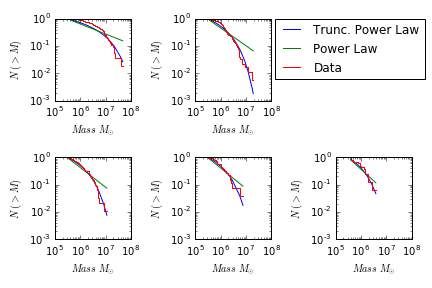
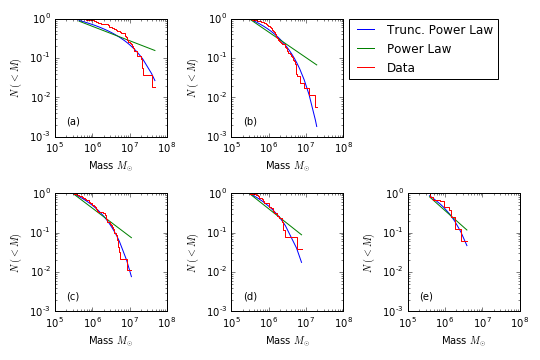
new catalog

Changed region(s): [[0.0, 0.5, 0.9931, 0.9688], [0.0, 0.0312, 0.9931, 0.4688]]

diff --git a/powerlawbins.py b/powerlawbins.py
@@ -33,6 +33,7 @@ mass=t['MASS_EXTRAP'].data
 myfit=powerlaw.Fit(mass)
 idx=np.where(t['MASS_EXTRAP']>3e5)
 mass_subset=t['MASS_EXTRAP'][idx].data
+myfit_subset=powerlaw.Fit(mass_subset, xmin=3e5)
 R,p=myfit_subset.distribution_compare('power_law', 'truncated_power_law')
 
 #plot bin 1
@@ -48,25 +49,19 @@ massdisk1_subset=t['MASS_EXTRAP'][idxmass_1].data
 fit_1_subset=powerlaw.Fit(massdisk1_subset, xmin=3e5)
 
 
-
-#fit_1.plot_ccdf() #look at the data with the fit
-print(fit_1.alpha) #returns the fitted index
-print(fit_1_subset.alpha)
-
 #compares two different forms of the distribution
 #R<0 means the data is more consistent with the right distribution, p is the significance of the result
 R1,p1=fit_1_subset.distribution_compare('power_law', 'truncated_power_law')
-print(R1,p1)
-print(1/fit_1_subset.truncated_power_law.parameter2)
 
-plt.figure(1)
+fig=plt.figure(figsize=(7.5,5))
+ax1=fig.add_subplot(231, xlabel=r'Mass $M_{\odot}$', ylabel=r'$N\ (<M)$')
 fit_1_subset.truncated_power_law.plot_ccdf(label='Trunc. Power Law')
 fit_1_subset.power_law.plot_ccdf(label='Power Law')
-fit_1_subset.plot_ccdf(drawstyle='steps', label='data')
-plt.xlabel(r'$Mass\ M_{\odot}$')
-plt.ylabel(r'$N\ (>M)$')
-plt.legend(loc=3)
-plt.savefig('powerlawbin1.png')
+fit_1_subset.plot_ccdf(drawstyle='steps', label='Data')
+plt.axis([10e4, 10e7, 10e-4, 10e-1])
+plt.text(2*10e4, 2*10e-4, '(a)')
+#plt.legend(loc=3)
+#plt.savefig('powerlawbin1.png')
 
 #plot bin 2
 
@@ -78,22 +73,16 @@ fit_2_subset=powerlaw.Fit(massdisk2_subset, xmin=3e5)
 massdisk2=t['MASS_EXTRAP'][idx_2].data
 fit_2=powerlaw.Fit(massdisk2)
 
-#fit_1.plot_ccdf() #look at the data with the fit
-print(fit_2.alpha) #returns the fitted index
-print(fit_2_subset.alpha)
-
 R2,p2=fit_2_subset.distribution_compare('power_law', 'truncated_power_law')
-print(R2,p2)
-print(1/fit_2_subset.truncated_power_law.parameter2)
 
-plt.figure(2)
+ax2=fig.add_subplot(232, sharex=ax1, sharey=ax1, xlabel=r'Mass $M_{\odot}$', ylabel=r'$N\ (<M)$')
 fit_2_subset.truncated_power_law.plot_ccdf(label='Trunc. Power Law')
 fit_2_subset.power_law.plot_ccdf(label='Power Law')
-fit_2_subset.plot_ccdf(drawstyle='steps', label='data')
-plt.xlabel(r'$Mass\ M_{\odot}$')
-plt.ylabel(r'$N\ (>M)$')
-plt.legend(loc=3)
-plt.savefig('powerlawbin2.png')
+fit_2_subset.plot_ccdf(drawstyle='steps', label='Data')
+plt.axis([10e4, 10e7, 10e-4, 10e-1])
+plt.text(2*10e4, 2*10e-4, '(b)')
+#plt.savefig('powerlawbin2.png')
+plt.legend(bbox_to_anchor=(1.05, 1), loc=2, borderaxespad=0.)
 
 #plot bin 3
 
@@ -106,22 +95,16 @@ fit_3_subset=powerlaw.Fit(massdisk3_subset, xmin=3e5)
 massdisk3=t['MASS_EXTRAP'][idx_3].data
 fit_3=powerlaw.Fit(massdisk3)
 
-#fit_1.plot_ccdf() #look at the data with the fit
-print(fit_3.alpha) #returns the fitted index
-print(fit_3_subset.alpha)
 
 R3,p3=fit_3_subset.distribution_compare('power_law', 'truncated_power_law')
-print(R3,p3)
-print(fit_3_subset.truncated_power_law.parameter2)
 
-plt.figure(3)
+ax3=fig.add_subplot(234, sharex=ax1, sharey=ax1, xlabel=r'Mass $M_{\odot}$', ylabel=r'$N\ (<M)$')
 fit_3_subset.truncated_power_law.plot_ccdf(label='Trunc. Power Law')
 fit_3_subset.power_law.plot_ccdf(label='Power Law')
-fit_3_subset.plot_ccdf(drawstyle='steps', label='data')
-plt.xlabel(r'$Mass\ M_{\odot}$')
-plt.ylabel(r'$N\ (>M)$')
-plt.legend(loc=3)
-plt.savefig('powerlawbin3.png')
+fit_3_subset.plot_ccdf(drawstyle='steps', label='Data')
+plt.axis([10e4, 10e7, 10e-4, 10e-1])
+plt.text(2*10e4, 2*10e-4, '(c)')
+#plt.savefig('powerlawbin3.png')
 
 #plot bin 4
 
@@ -134,22 +117,16 @@ fit_4_subset=powerlaw.Fit(massdisk4_subset, xmin=3e5)
 massdisk4=t['MASS_EXTRAP'][idx_4].data
 fit_4=powerlaw.Fit(massdisk4)
 
-#fit_1.plot_ccdf() #look at the data with the fit
-print(fit_4.alpha) #returns the fitted index
-print(fit_4_subset.alpha)
 
 R4,p4=fit_4_subset.distribution_compare('power_law', 'truncated_power_law')
-print(R4,p4)
-print(1/fit_4_subset.truncated_power_law.parameter2)
 
-plt.figure(4)
+ax4=fig.add_subplot(235, sharex=ax1, sharey=ax1, xlabel=r'Mass $M_{\odot}$', ylabel=r'$N\ (<M)$')
 fit_4_subset.truncated_power_law.plot_ccdf(label='Trunc. Power Law')
 fit_4_subset.power_law.plot_ccdf(label='Power Law')
-fit_4_subset.plot_ccdf(drawstyle='steps', label='data')
-plt.xlabel(r'$Mass\ M_{\odot}$')
-plt.ylabel(r'$N\ (>M)$')
-plt.legend(loc=3)
-plt.savefig('powerlawbin4.png')
+fit_4_subset.plot_ccdf(drawstyle='steps', label='Data')
+plt.axis([10e4, 10e7, 10e-4, 10e-1])
+plt.text(2*10e4, 2*10e-4, '(d)')
+#plt.savefig('powerlawbin4.png')
 
 #plot bin 5
 
@@ -162,22 +139,17 @@ fit_5_subset=powerlaw.Fit(massdisk5_subset, xmin=3e5)
 massdisk5=t['MASS_EXTRAP'][idx_5].data
 fit_5=powerlaw.Fit(massdisk5)
 
-#fit_1.plot_ccdf() #look at the data with the fit
-print(fit_5.alpha) #returns the fitted index
-print(fit_5_subset.alpha)
-
 R5,p5=fit_5_subset.distribution_compare('power_law', 'truncated_power_law')
-print(R5,p5)
-print(fit_5_subset.truncated_power_law.parameter2)
 
-plt.figure(5)
+ax5=fig.add_subplot(236, sharex=ax1, sharey=ax1, xlabel=r'Mass $M_{\odot}$', ylabel=r'$N\ (<M)$')
 fit_5_subset.truncated_power_law.plot_ccdf(label='Trunc. Power Law')
 fit_5_subset.power_law.plot_ccdf(label='Power Law')
-fit_5_subset.plot_ccdf(drawstyle='steps', label='data')
-plt.xlabel(r'$Mass\ M_{\odot}$')
-plt.ylabel(r'$N\ (>M)$')
-plt.legend(loc=3)
-plt.savefig('powerlawbin5.png')
+fit_5_subset.plot_ccdf(drawstyle='steps', label='Data')
+plt.axis([10e4, 10e7, 10e-4, 10e-1])
+plt.text(2*10e4, 2*10e-4, '(e)')
+#plt.savefig('powerlawbin5.png')
+plt.tight_layout()
+plt.savefig('powerlawsubplots.png')
 
 t=PrettyTable(["Bins", "R", "p", "index", "Truncation mass M_c", "Adamo's index"])
 t.add_row(["0<r<4.5",R,p,-myfit_subset.alpha,1/myfit_subset.truncated_power_law.parameter2 , "N/A"])
